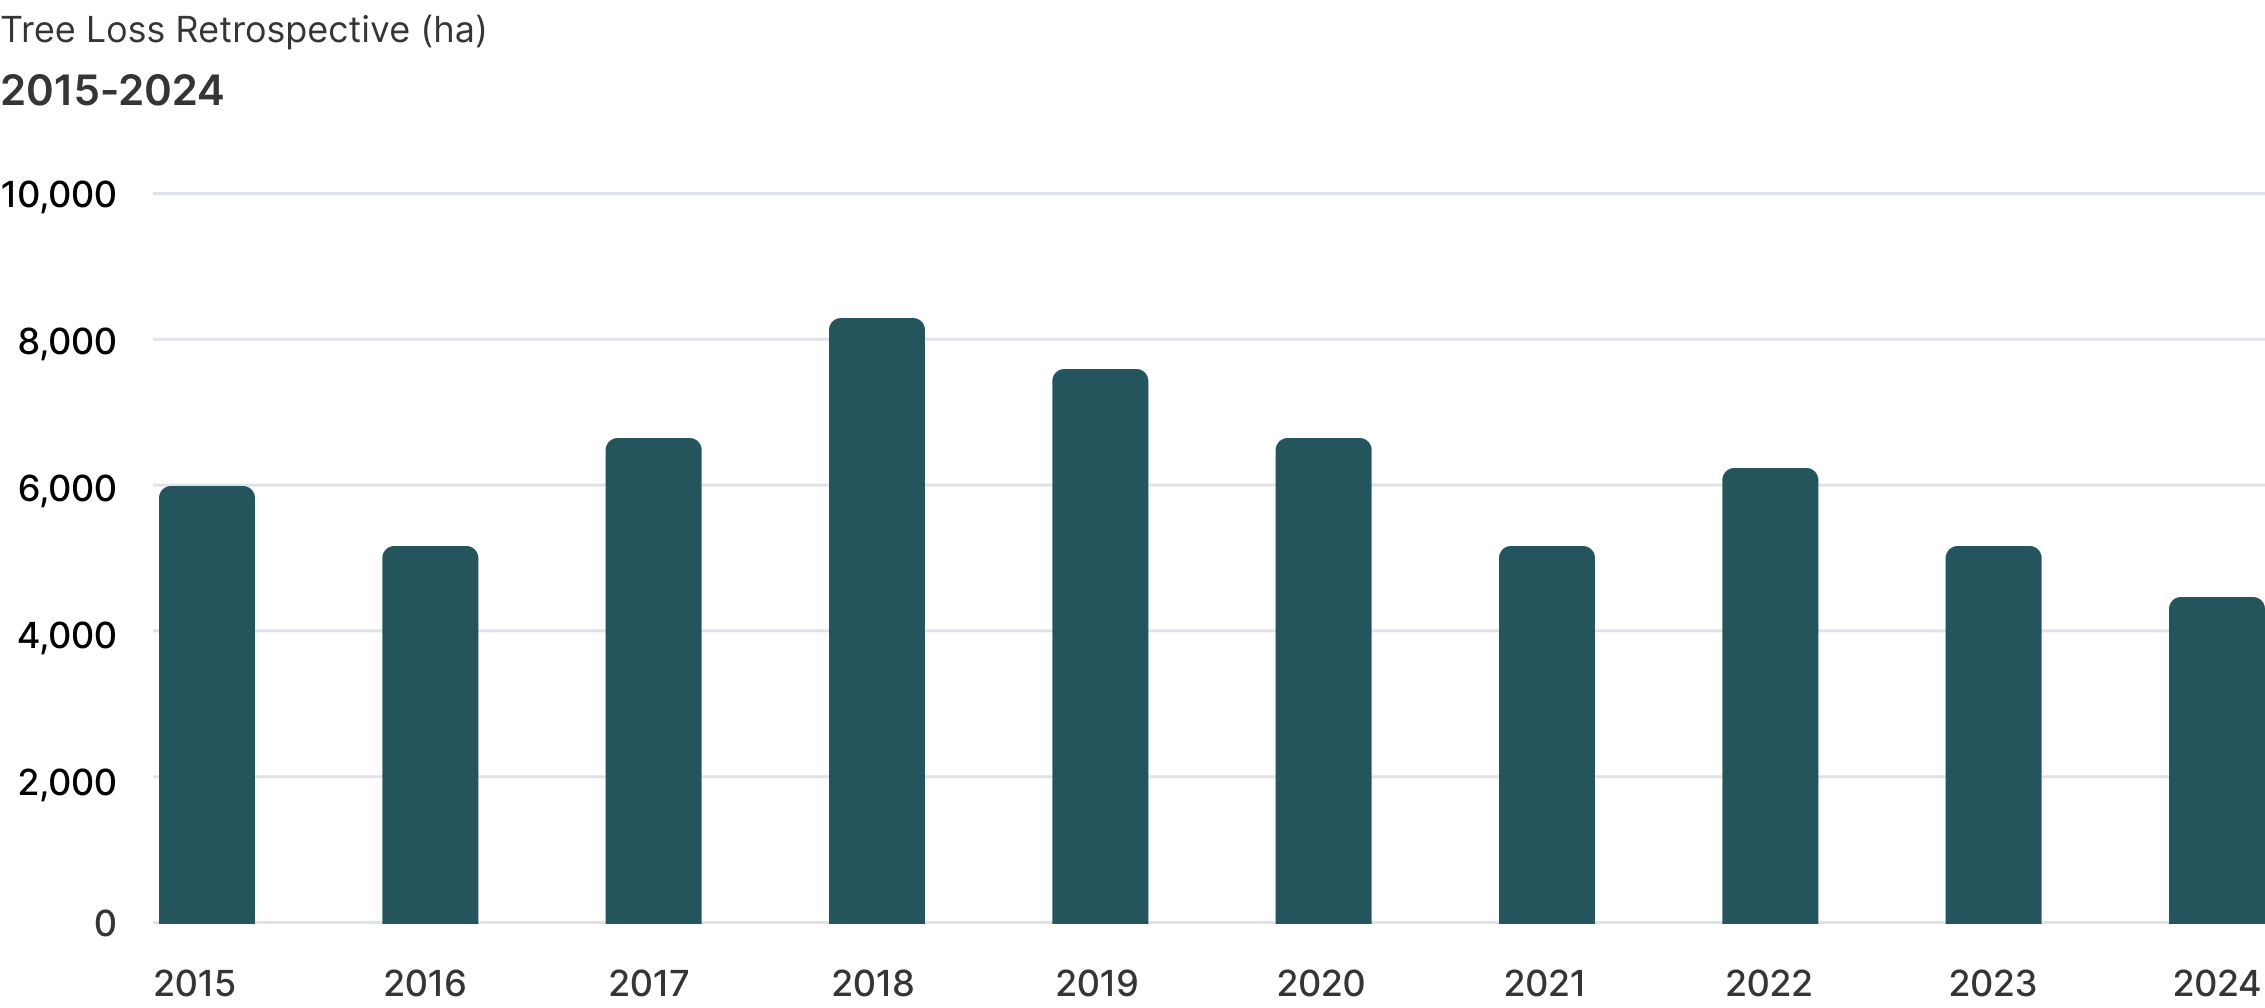
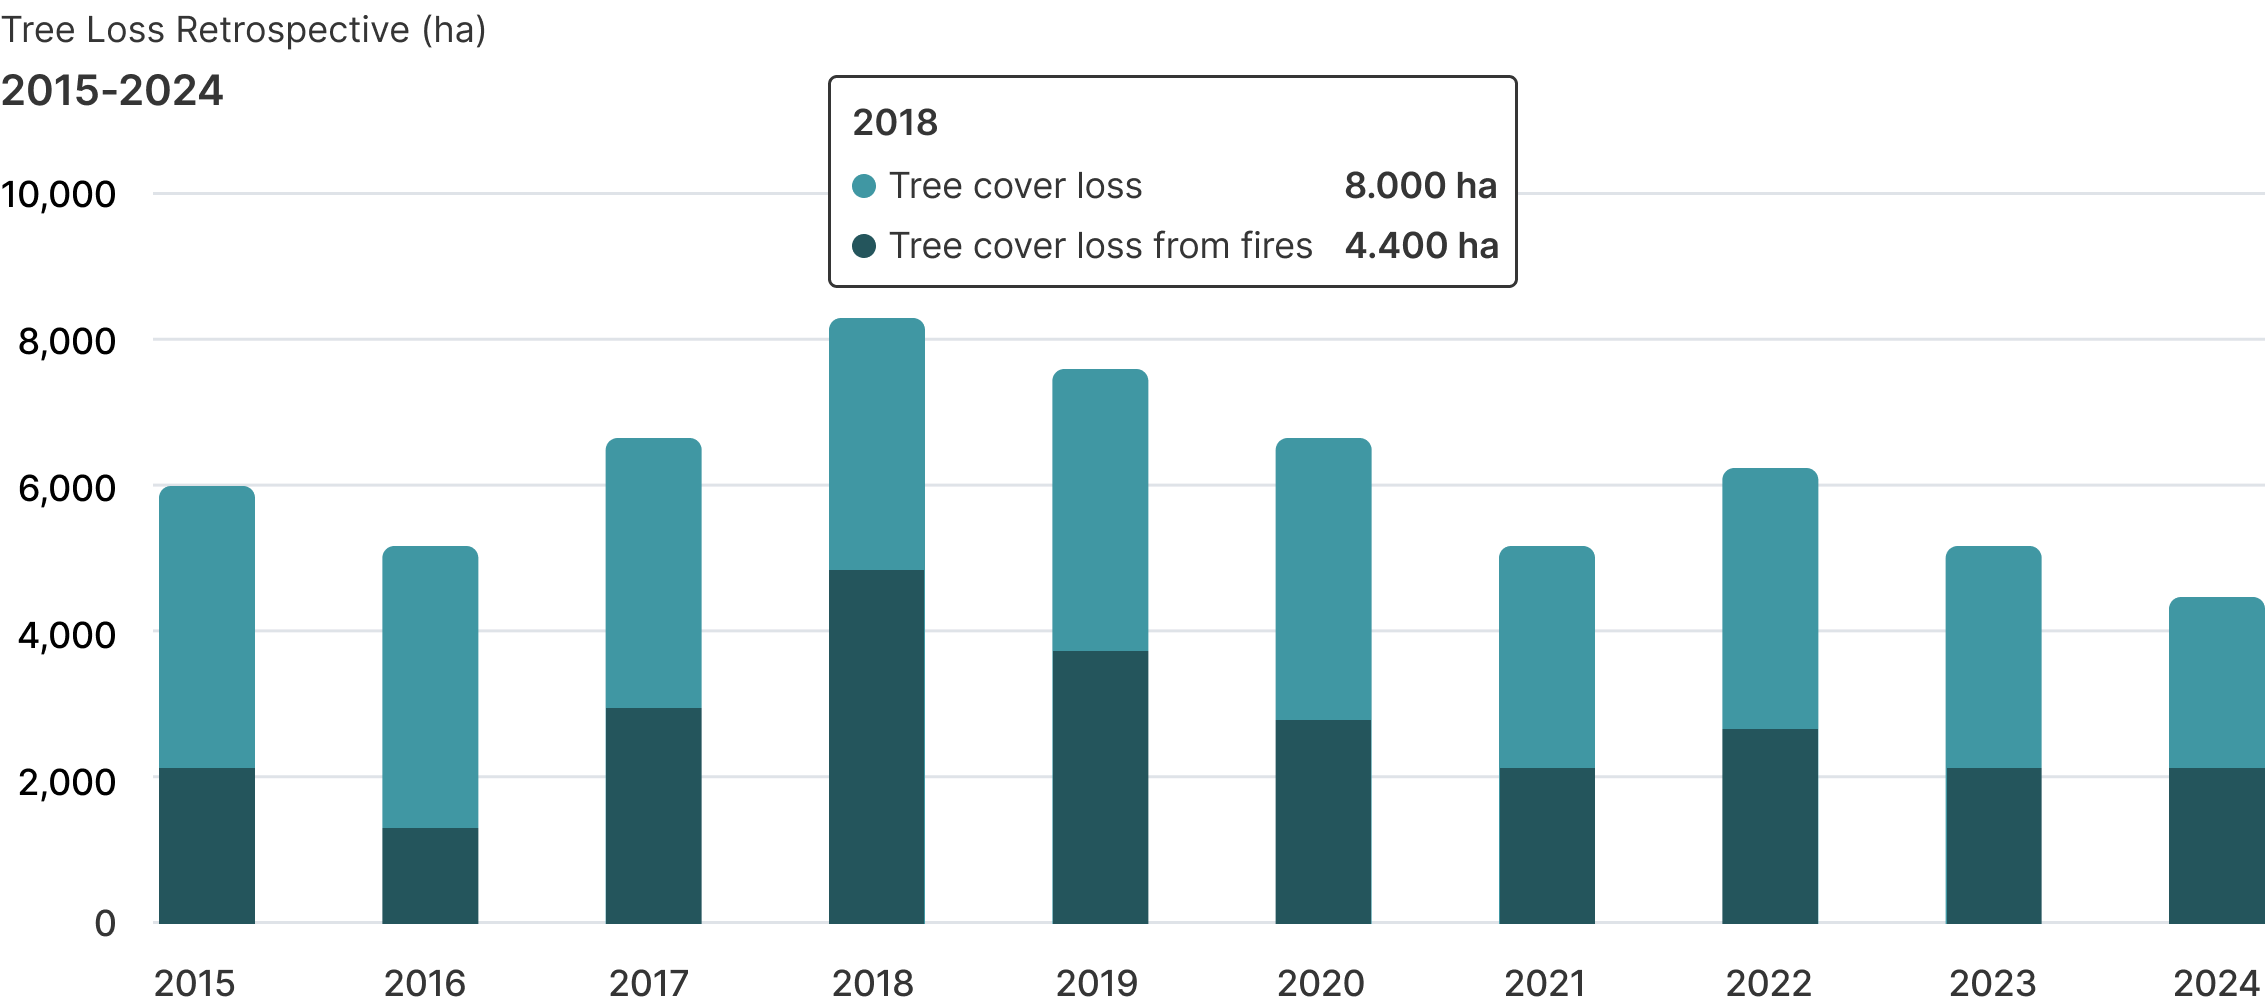
[TM-1392] TM-1392 Update data card graphic

diff --git a/src/admin/components/ResourceTabs/MonitoredTab/components/DataCard.tsx b/src/admin/components/ResourceTabs/MonitoredTab/components/DataCard.tsx
@@ -828,7 +828,7 @@ const DataCard = ({ ...rest }: React.HTMLAttributes<HTMLDivElement>) => {
               </div>
             </div>
             <When condition={selected.includes("1")}>
-              <img src="/images/monitoring-graph-1.png" alt="" className="w-[73%] object-contain" />
+              <img src="/images/monitoring-graph-2.png" alt="" className="w-[73%] object-contain" />
             </When>
             <When condition={selected.includes("2") || selected.includes("2")}>
               <img src="/images/monitoring-graph-2.png" alt="" className="w-[73%] object-contain" />
@@ -857,7 +857,7 @@ const DataCard = ({ ...rest }: React.HTMLAttributes<HTMLDivElement>) => {
               mapFunctions={mapFunctions}
               sitePolygonData={[]}
               hasControls={!selected.includes("6")}
-              showLegend
+              showLegend={!selected.includes("6")}
               legendPosition="bottom-right"
               showViewGallery={false}
             />
